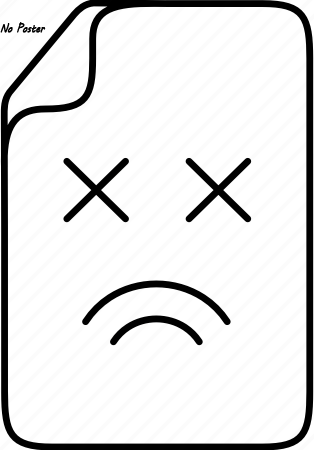
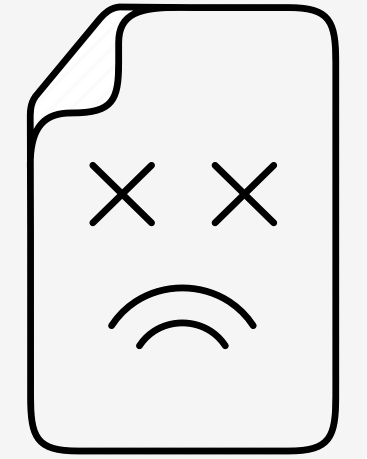
index almost done!

diff --git a/index.html b/index.html
@@ -22,7 +22,7 @@
             <div id="menu" class="item22">
                 <a href="#" onClick="logInPopUp('login')">Σύνδεση</a>
                 <a href="#" onClick="signUpPopUp('signup')">Εγγραφή</a>
-                <span id="loginas" style="float: right; font-family: CaviarDreams;"><span
+                <span id="loginas" style="float: right; font-family: CaviarDreams;">Συνδεδεμένος ως <span
                         style="color: #931f1f;">Επισκέπτης</span></span>
             </div>
 
@@ -38,20 +38,26 @@
             <div id="results" class="item44" style="margin-top: 20px;">
                 <div class="container">
                     <div style="margin: auto;">
-                        <div id="preview">
-                            <img id="src" src="" alt="Poster" class="responsive">
-                            
-                            <a href="#" style="text-align: right;"><img id="bookmark" onClick="bookmark()" src="icons/notAdded.png"
-                                    alt="Bookmark" style="float: right;"></a>
-                            <br>
-                            <h3>Title: <span class="res" id="title"></span></h3>
-                            <h4>Released: <span class="res" id="release"></span></h4>
-                            <h4>Genre: <span class="res" id="genre"></span></h4>
-                            <h4>Rating: <span class="res" id="imdbRating"></span></h4><br>
-                            <div id="sl">
-                                <img id="moreORless" src="icons/more.png" alt="More Info" width="20px" height="20px">
-                                <a id="show" href="#" onClick="showInfo()" style="font-size: small;">More
-                                    Information</a><br><br>
+                        <div id="preview" style="overflow: hidden;">
+                            <div>
+                                <img id="src" src="icons/404.png" alt="Poster" class="responsive">
+                            </div>
+                            <div id="info">
+                                <h3>Title: <span class="res" id="title"></span></h3>
+                                <h4>Released: <span class="res" id="release"></span></h4>
+                                <h4>Genre: <span class="res" id="genre"></span></h4>
+                                <h4>Rating: <span class="res" id="imdbRating"></span></h4><br>
+                                <div id="sl">
+                                    <img id="moreORless" src="icons/more.png" alt="More Info" width="20px"
+                                        height="20px">
+                                    <a id="show" href="#" onClick="showInfo()" style="font-size: small;">More
+                                        Information</a><br><br>
+                                </div>
+
+                            </div>
+                            <div>
+                                <a href="#"><img id="bookmark" onClick="bookmark()" src="icons/notAdded.png"
+                                        alt="Bookmark"></a>
                             </div>
                         </div>
                         <span class="clear">

diff --git a/styles.css b/styles.css
@@ -157,8 +157,6 @@ input[type=password]:focus {
 .responsive {
     max-width: 100%;
     height: auto;
-    padding: 20px;
-
 }
 
 .clear { 
@@ -174,6 +172,11 @@ input[type=password]:focus {
 
 .res {
     color: black;
+}
+
+.flex-container {
+    display: flex;
+    white-space: nowrap;
 }
 
 .item11 { grid-area: title; }
@@ -228,10 +231,22 @@ input[type=password]:focus {
 
 #src {
     width: 40%;
+    height: auto;
+    padding-right: 20px;
+    float: left;
+}
+
+#srcBookmark {
+    width: 10%;
     float: left;
 }
 
 #src:hover {
+    transform: scale(1.01);
+    transition: 0.3s ease-in-out;
+}
+
+#srcBookmark:hover {
     transform: scale(1.01);
     transition: 0.3s ease-in-out;
 }
@@ -256,10 +271,10 @@ input[type=password]:focus {
 }
 
 #bookmark {
-    width: 5%;
+    width: 40px;
     display: block;
     margin-left: auto;
-    margin-right: 20px;
+    margin-right: auto;
 }
 
 
@@ -270,6 +285,10 @@ input[type=password]:focus {
 
 #foot {
     bottom: 0;
+}
+
+#info {
+    float: left;
 }
 
 @media only screen and (max-width: 768px) {
@@ -320,6 +339,16 @@ input[type=password]:focus {
     }
 
     #src {
+        max-width: 60%;
+        height: auto;
+        float: none;
+        display: block;
+        padding-right: 0px;
+        margin-left: auto;
+        margin-right: auto;
+    }
+
+    #srcBookmark {
         width: 60%;
         float: none;
         display: block;
@@ -335,8 +364,13 @@ input[type=password]:focus {
     }
 
     #bookmark {
-        display: block;
+        width: 30px;
         margin-left: auto;
         margin-right: auto;
     }
+
+    #info {
+        float: none;
+    }
+    
 }

diff --git a/scripts.js b/scripts.js
@@ -35,7 +35,7 @@ function OMDbAPICall(title) {
       if (poster !== "N/A") {
         $('#src').attr('src', poster);
       } else {
-        $('#src').attr('src', "icons/404.png");
+        $('#src').attr('src', "icons/404v2.png");
       }
       document.querySelector("#notFound").innerHTML = "Αποτέλεσμα...";
       document.querySelector("#notFound").style.opacity = "1";
@@ -133,7 +133,8 @@ function createBookmarks() {
       var say;
 
       img.src = poster;
-      img.style = "float: left; width: 20%; height: auto; padding-right: 20px;"
+      img.id = "srcBookmark"
+      img.style = "height: auto; padding-right: 20px;"
 
       span.style = "padding: 20px;";
       span.className = "clear";
